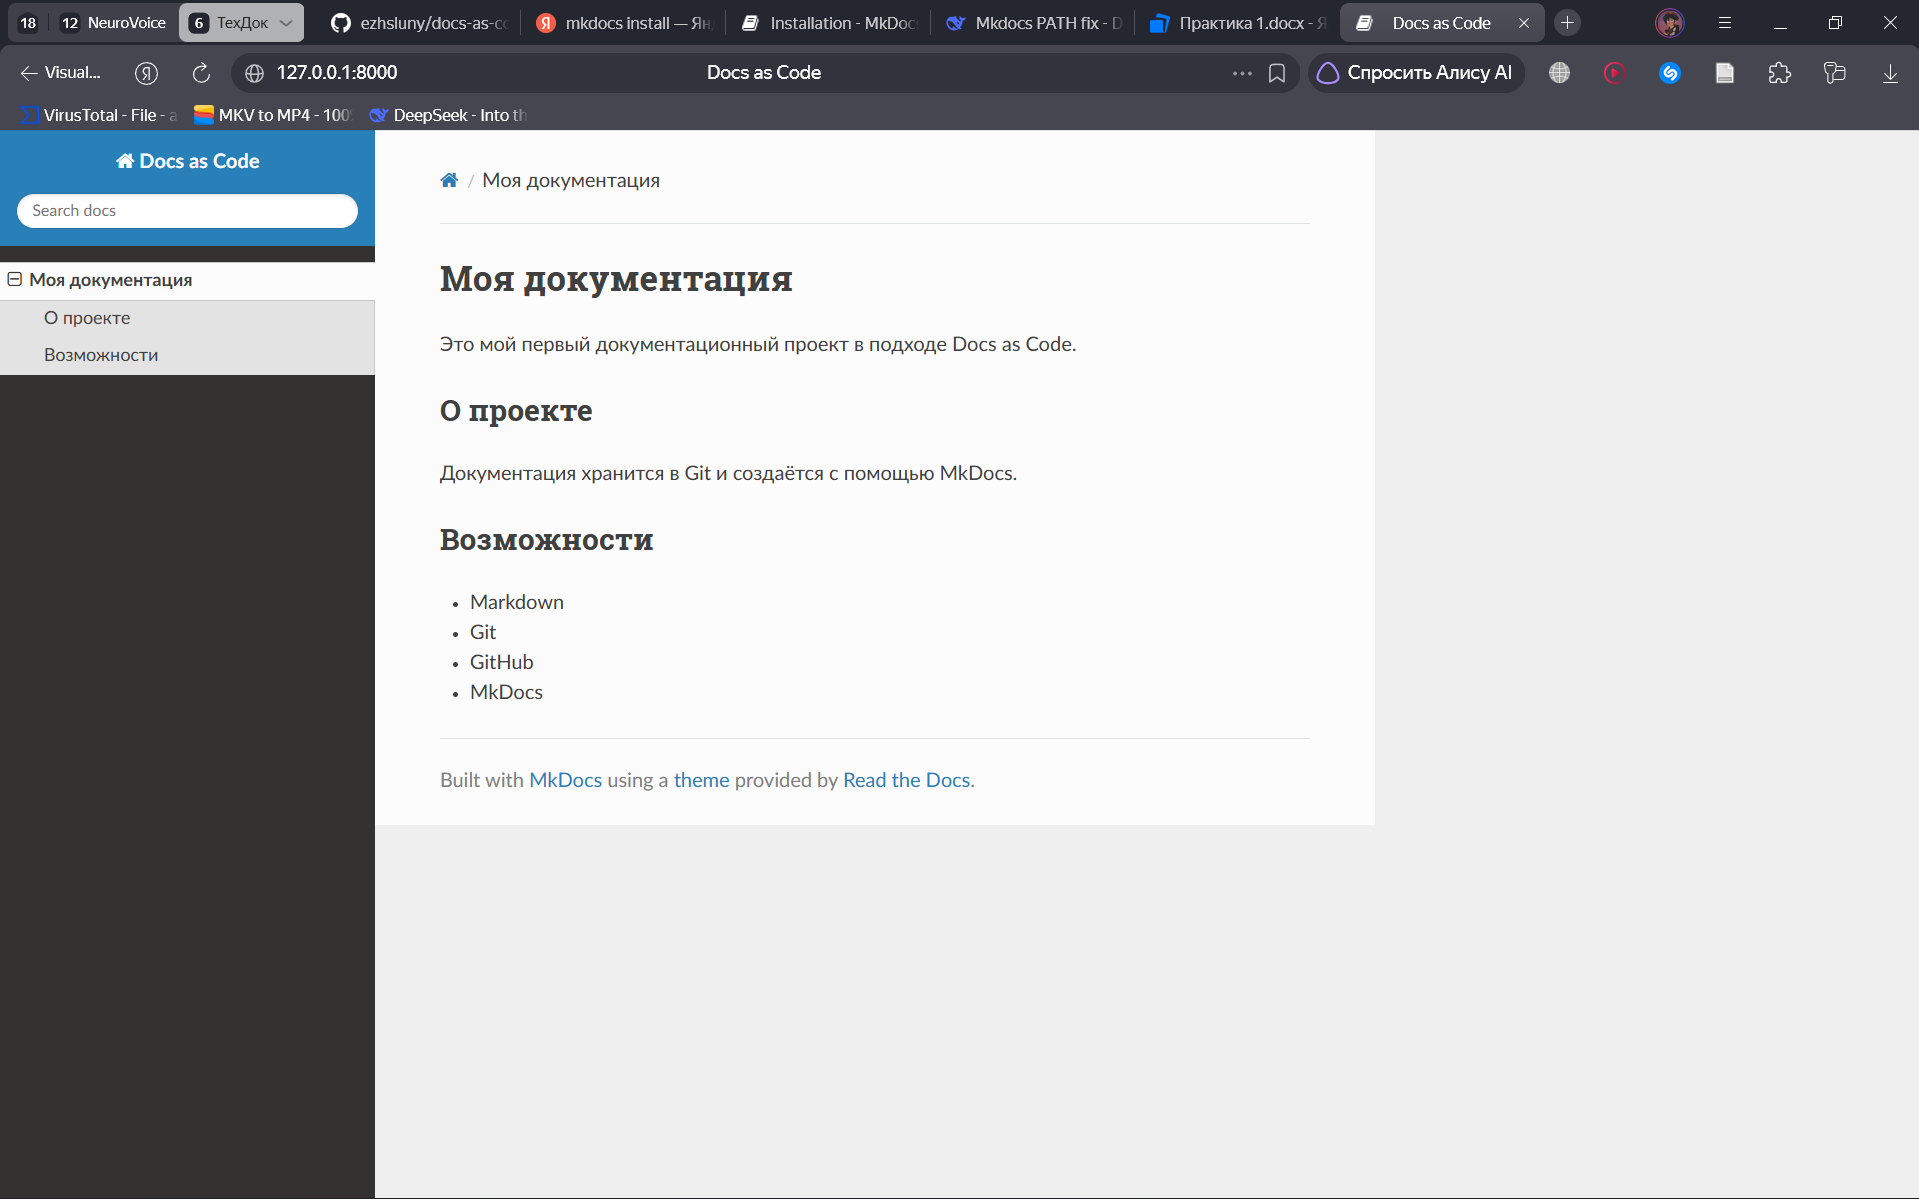
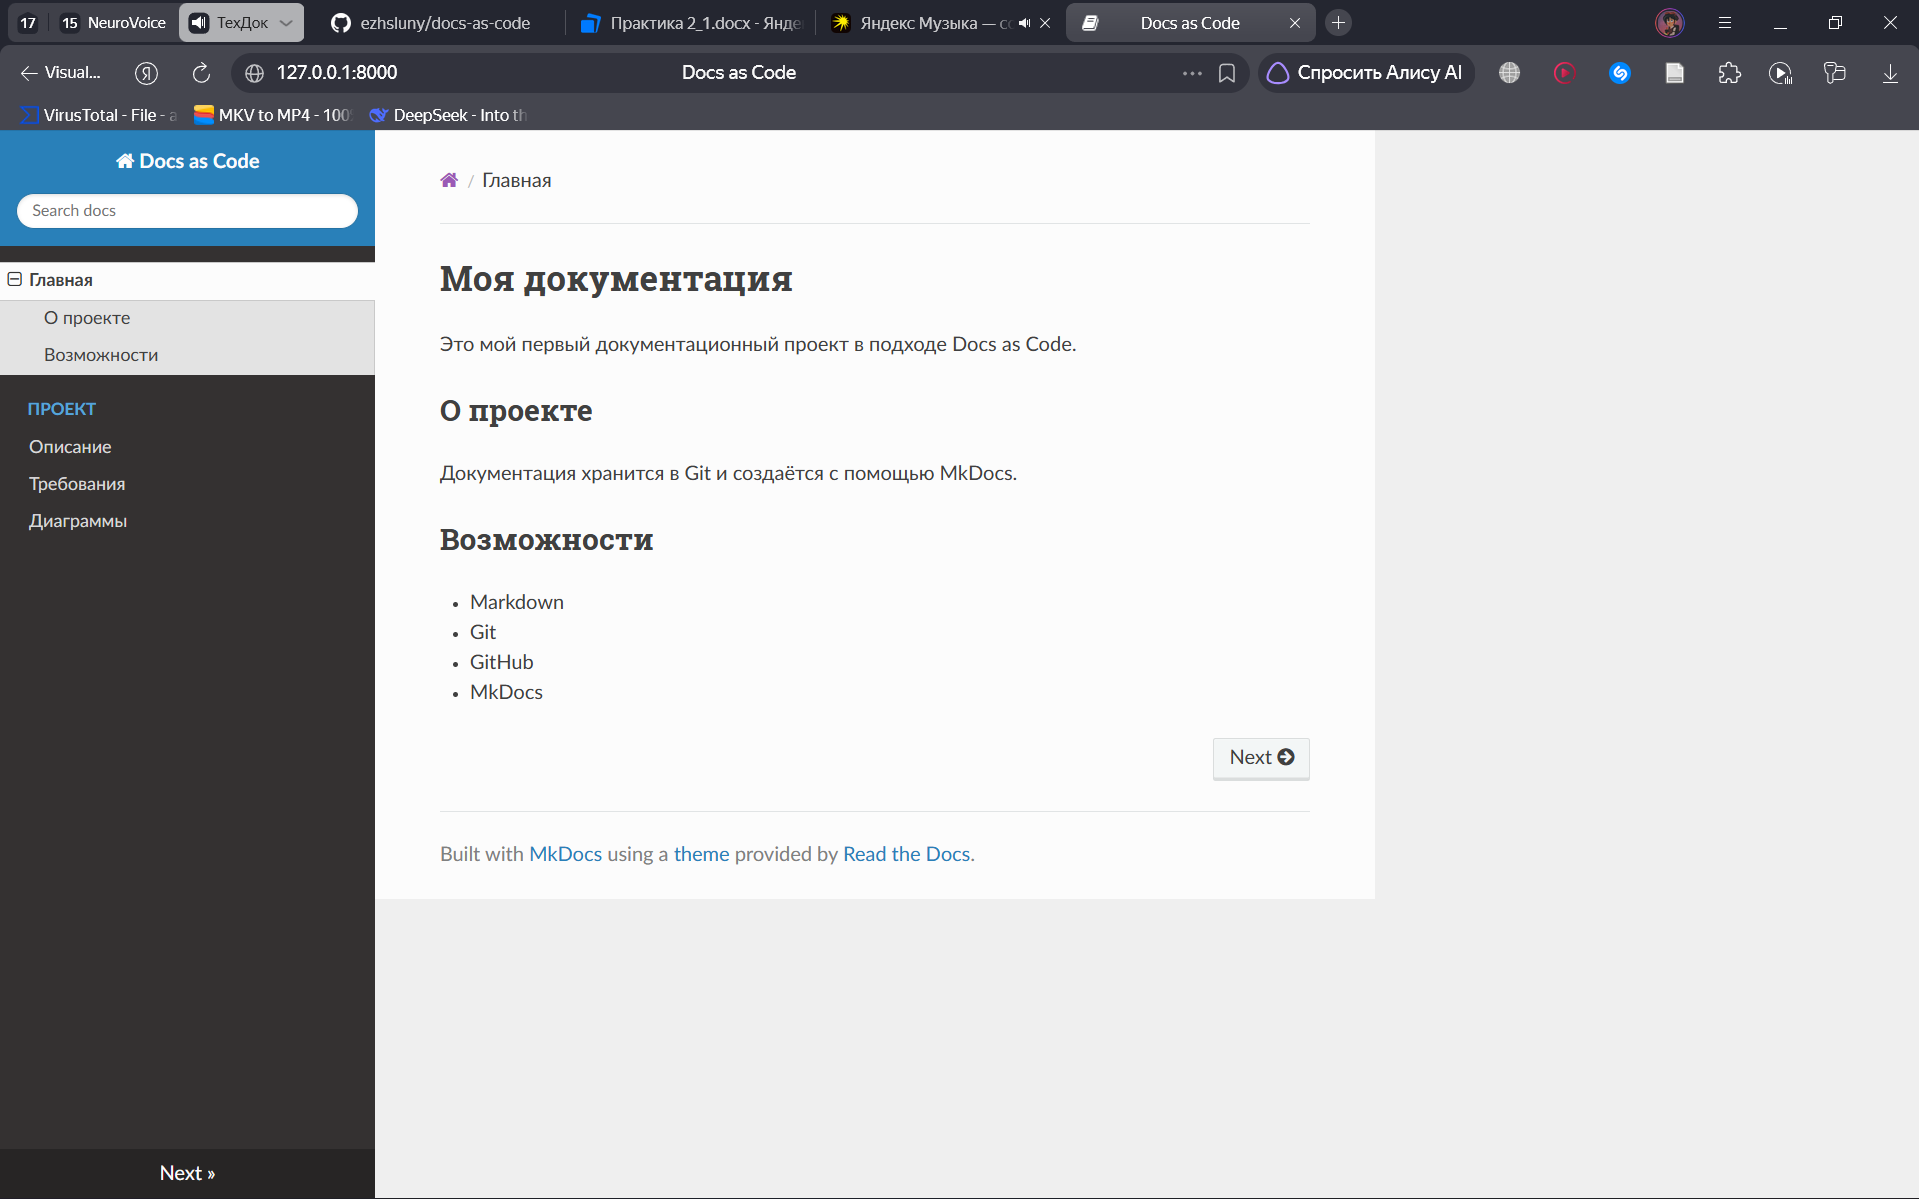
Add project requirements and diagrams

diff --git a/docs/project/requirements.md b/docs/project/requirements.md
@@ -1,0 +1,59 @@
+# Требования
+
+## User Stories
+
+### US-01. Автоматическое извлечение данных из резюме
+**Как** HR-специалист / рекрутер,  
+**я хочу** загружать резюме и автоматически получать структурированные навыки, образование и опыт,  
+**чтобы** быстрее оценивать кандидатов и не тратить время на ручной разбор текста.
+
+**Критерии приёмки:**
+
+- система принимает резюме в поддерживаемых форматах (например, PDF и DOCX)
+- после обработки отображаются извлечённые блоки «Навыки», «Образование» и «Опыт работы»
+- если текст не удалось распознать или извлечь, пользователь получает понятное сообщение об ошибке
+
+### US-02. Оценка соответствия резюме вакансии
+**Как** нанимающий менеджер,  
+**я хочу** сравнивать резюме кандидата с требованиями вакансии и получать оценку соответствия,  
+**чтобы** быстрее отбирать релевантных кандидатов на собеседование.
+
+**Критерии приёмки:**
+
+- пользователь может выбрать вакансию и резюме для сравнения
+- система показывает итоговую оценку соответствия
+- если в вакансии не заданы ключевые требования, система сообщает об этом и не формирует некорректную оценку
+
+### US-03. Ранжирование и экспорт кандидатов
+**Как** HR-специалист / рекрутер,  
+**я хочу** видеть кандидатов, отсортированных по релевантности вакансии, и экспортировать результаты,  
+**чтобы** быстро передать шорт-лист нанимающему менеджеру.
+
+**Критерии приёмки:**
+
+- список кандидатов отображается с сортировкой по убыванию оценки релевантности
+- пользователь может применить фильтры по навыкам и опыту, и сортировка сохраняется для отфильтрованного списка
+- экспорт результатов доступен в согласованном формате (например, CSV) и содержит оценку, ключевые навыки и статус соответствия
+
+## Use Case
+
+### UC-01. Автоматическое извлечение данных из резюме
+
+**Актор:** HR-специалист / рекрутер
+
+**Цель:** получить структурированные данные (навыки, образование, опыт работы) из загруженного резюме
+
+**Предусловие:** пользователь авторизован в системе и загрузил резюме в поддерживаемом формате (PDF/DOCX)
+
+**Основной сценарий:**
+
+1. HR-специалист открывает загруженное резюме и нажимает «Анализировать».
+2. Система передаёт текст резюме в ML-пайплайн (NLP/NER).
+3. ML-модель извлекает данные: навыки, образование, опыт работы.
+4. Система получает результат и нормализует извлечённые данные.
+5. HR-специалист видит структурированные блоки «Навыки», «Образование», «Опыт работы» с указанием уверенности модели.
+
+**Альтернативный сценарий:**
+Если модель не может обработать текст или уверенность ниже порога, система сообщает, что требуется ручная проверка.
+
+**Результат:** данные резюме структурированы и доступны для дальнейшего поиска, фильтрации, оценки соответствия вакансии и экспорта; либо резюме передано на ручную проверку.

diff --git a/docs/project/overview.md b/docs/project/overview.md
@@ -1,0 +1,29 @@
+# Анализатор резюме
+
+## Описание проекта
+
+Сервис автоматически извлекает навыки, образование и опыт из резюме.
+
+**Основные пользователи:**
+
+- HR-специалист / рекрутер;
+- нанимающий менеджер;
+- соискатель;
+- администратор сервиса.
+
+**Основные функции:**
+
+- извлечение данных (навыки, образование, опыт) на основе NLP/NER;
+- оценка соответствия резюме вакансии;
+- ранжирование кандидатов по релевантности;
+- экспорт результатов.
+
+## Комплект документации
+
+1. Описание проекта — для заказчика, команды и новых участников, чтобы единообразно понимать цели, границы и ценность проекта.
+2. Требования — для аналитиков, разработчиков и тестировщиков, чтобы зафиксировать функциональность, ограничения и критерии приёмки.
+3. Архитектура системы — для разработчиков, чтобы понимать состав компонентов, потоки данных и интеграции.
+4. Документация API — для фронтенд- и бэкенд-разработчиков, чтобы корректно вызывать сервис и обрабатывать ответы.
+5. Документация ML-модели — для ML-инженеров, чтобы понимать подход, данные, метрики, ограничения и порядок дообучения.
+6. Руководство пользователя — для HR-специалистов и рекрутеров, чтобы эффективно загружать резюме, анализировать результаты и работать с кандидатами.
+7. Документация по безопасности и обработке персональных данных — для владельцев данных, юристов и администраторов, чтобы соблюдать правила хранения, доступа и обезличивания резюме.

diff --git a/docs/project/diagrams.md b/docs/project/diagrams.md
@@ -1,0 +1,71 @@
+# Диаграммы
+
+## Диаграмма последовательности
+
+```mermaid
+sequenceDiagram
+    actor HR as HR-специалист
+    participant System as Система
+    participant Model as ML-модель (NLP/NER)
+    participant DB as Хранилище данных
+
+    HR->>System: Открыть резюме и нажать «Анализировать»
+    System->>Model: Передать текст резюме
+    Model-->>System: Вернуть извлечённые сущности и уверенность
+    System->>System: Нормализовать данные
+    System->>DB: Сохранить структурированные данные
+    DB-->>System: Подтвердить сохранение
+
+    alt Уверенность ниже порога или ошибка извлечения
+        System-->>HR: Сообщить о необходимости ручной проверки
+    else Успешное извлечение
+        System-->>HR: Показать блоки «Навыки», «Образование», «Опыт работы»
+    end
+```
+
+## Диаграмма классов
+
+```mermaid
+classDiagram
+    class User {
+        +int id
+        +string name
+        +string role
+    }
+
+    class Resume {
+        +int id
+        +string fileName
+        +string text
+        +string status
+    }
+
+    class ResumeAnalysis {
+        +int id
+        +list skills
+        +list education
+        +list experience
+        +float confidence
+    }
+
+    class Vacancy {
+        +int id
+        +string title
+        +list requiredSkills
+        +string description
+    }
+
+    class MatchResult {
+        +int id
+        +float score
+        +list matchedRequirements
+        +list missingRequirements
+    }
+
+    User "1" --> "*" Resume : загружает
+    Resume "1" --> "1" ResumeAnalysis : анализируется в
+    User "1" --> "*" Vacancy : создаёт
+    ResumeAnalysis "*" --> "*" Vacancy : сравнивается через
+    ResumeAnalysis "1" --> "*" MatchResult : формирует
+    Vacancy "1" --> "*" MatchResult : оценивается в
+```
